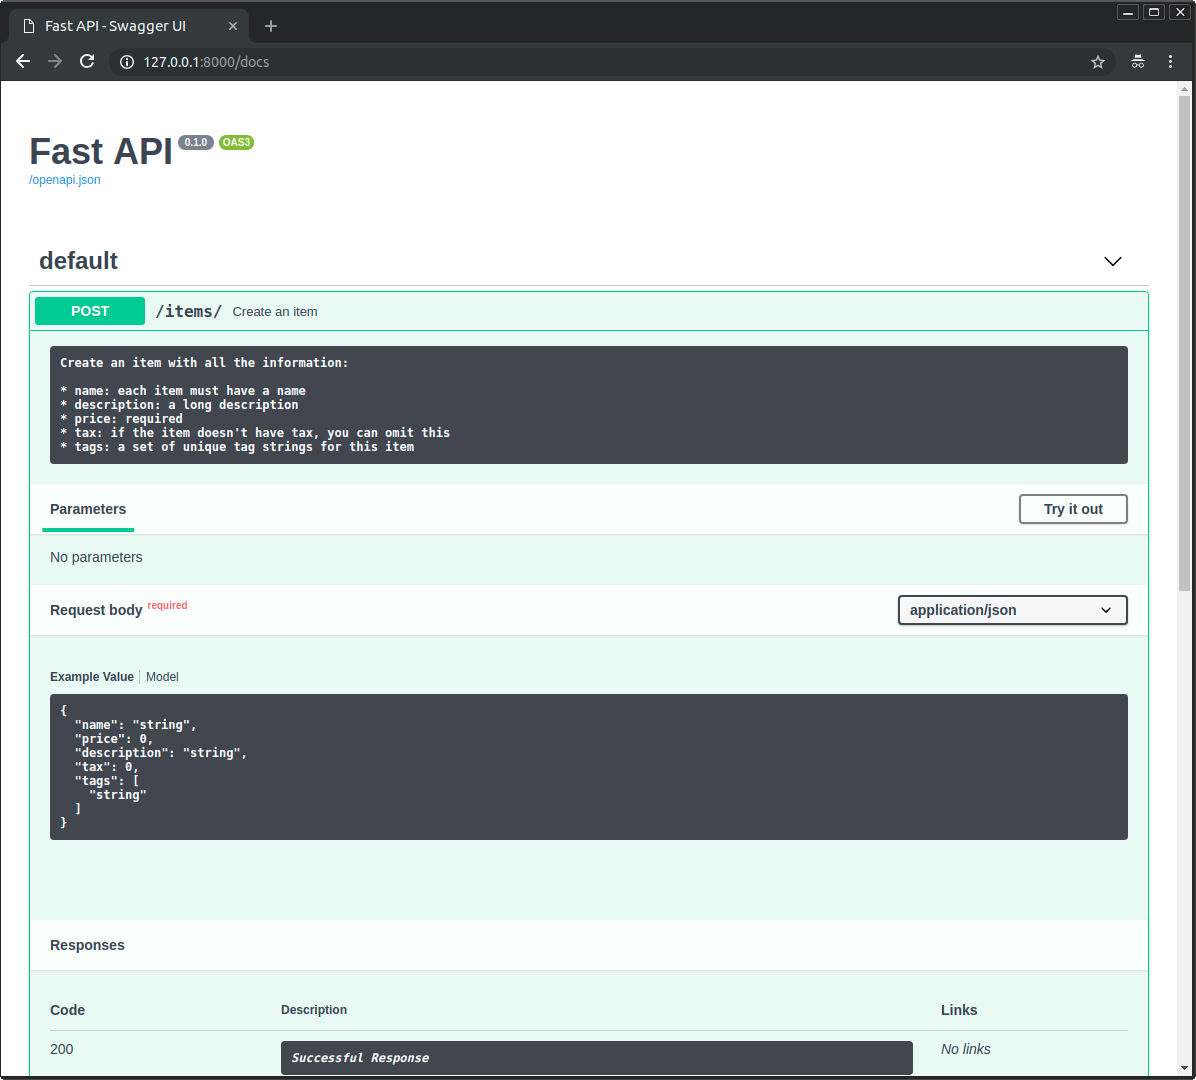
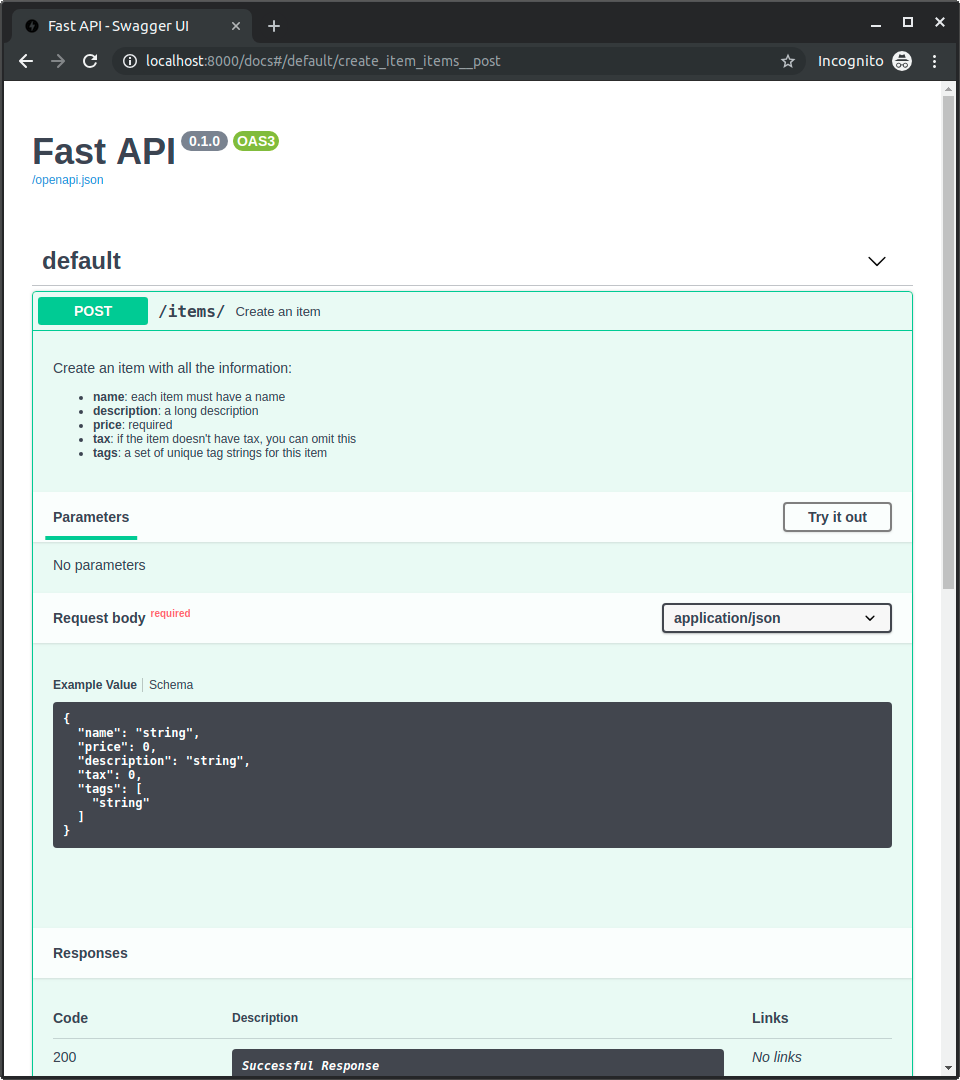
:sparkles: Upgrade docstring Markdown parsing (#163)
* :sparkles: Upgrade docstring Markdown parsing

* :memo: Update release notes

diff --git a/docs/src/path_operation_configuration/tutorial004.py b/docs/src/path_operation_configuration/tutorial004.py
@@ -18,11 +18,11 @@ class Item(BaseModel):
 async def create_item(*, item: Item):
     """
     Create an item with all the information:
-    
-    * name: each item must have a name
-    * description: a long description
-    * price: required
-    * tax: if the item doesn't have tax, you can omit this
-    * tags: a set of unique tag strings for this item
+
+    - **name**: each item must have a name
+    - **description**: a long description
+    - **price**: required
+    - **tax**: if the item doesn't have tax, you can omit this
+    - **tags**: a set of unique tag strings for this item
     """
     return item

diff --git a/docs/src/path_operation_configuration/tutorial005.py b/docs/src/path_operation_configuration/tutorial005.py
@@ -23,11 +23,11 @@ class Item(BaseModel):
 async def create_item(*, item: Item):
     """
     Create an item with all the information:
-    
-    * name: each item must have a name
-    * description: a long description
-    * price: required
-    * tax: if the item doesn't have tax, you can omit this
-    * tags: a set of unique tag strings for this item
+
+    - **name**: each item must have a name
+    - **description**: a long description
+    - **price**: required
+    - **tax**: if the item doesn't have tax, you can omit this
+    - **tags**: a set of unique tag strings for this item
     """
     return item

diff --git a/fastapi/routing.py b/fastapi/routing.py
@@ -137,7 +137,7 @@ class APIRoute(routing.Route):
         self.status_code = status_code
         self.tags = tags or []
         self.summary = summary
-        self.description = description or self.endpoint.__doc__
+        self.description = description or inspect.cleandoc(self.endpoint.__doc__ or "")
         self.response_description = response_description
         self.responses = responses or {}
         response_fields = {}

diff --git a/tests/test_tutorial/test_path_operation_configurations/test_tutorial005.py b/tests/test_tutorial/test_path_operation_configurations/test_tutorial005.py
@@ -31,7 +31,7 @@ openapi_schema = {
                     },
                 },
                 "summary": "Create an item",
-                "description": "\n    Create an item with all the information:\n    \n    * name: each item must have a name\n    * description: a long description\n    * price: required\n    * tax: if the item doesn't have tax, you can omit this\n    * tags: a set of unique tag strings for this item\n    ",
+                "description": "Create an item with all the information:\n\n- **name**: each item must have a name\n- **description**: a long description\n- **price**: required\n- **tax**: if the item doesn't have tax, you can omit this\n- **tags**: a set of unique tag strings for this item",
                 "operationId": "create_item_items__post",
                 "requestBody": {
                     "content": {

diff --git a/docs/tutorial/path-operation-configuration.md b/docs/tutorial/path-operation-configuration.md
@@ -42,6 +42,8 @@ You can add a `summary` and `description`:
 
 As descriptions tend to be long and cover multiple lines, you can declare the path operation description in the function <abbr title="a multi-line string as the first expression inside a function (not assigned to any variable) used for documentation">docstring</abbr> and **FastAPI** will read it from there.
 
+You can write <a href="https://en.wikipedia.org/wiki/Markdown" target="_blank">Markdown</a> in the docstring, it will be interpreted and displayed correctly (taking into account docstring indentation).
+
 ```Python hl_lines="19 20 21 22 23 24 25 26 27"
 {!./src/path_operation_configuration/tutorial004.py!}
 ```
@@ -49,9 +51,6 @@ As descriptions tend to be long and cover multiple lines, you can declare the pa
 It will be used in the interactive docs:
 
 <img src="/img/tutorial/path-operation-configuration/image02.png">
-
-!!! info
-    OpenAPI specifies that descriptions can be written in Markdown syntax, but the interactive documentation systems included still don't support it at the time of writing this, although they have it in their plans.
 
 ## Response description
 

diff --git a/docs/release-notes.md b/docs/release-notes.md
@@ -1,5 +1,7 @@
 ## Next release
 
+* Upgrade *path operation* `doctsring` parsing to support proper Markdown descriptions. New documentation at <a href="https://fastapi.tiangolo.com/tutorial/path-operation-configuration/#description-from-docstring" target="_blank">Path Operation Configuration</a>. PR <a href="https://github.com/tiangolo/fastapi/pull/163" target="_blank">#163</a>.
+
 * Upgrade Pydantic to version `0.23`. PR <a href="https://github.com/tiangolo/fastapi/pull/160" target="_blank">#160</a> by <a href="https://github.com/euri10" target="_blank">@euri10</a>.
 
 * Fix typo in Tutorial about Extra Models. PR <a href="https://github.com/tiangolo/fastapi/pull/159" target="_blank">#159</a> by <a href="https://github.com/danielmichaels" target="_blank">@danielmichaels</a>.